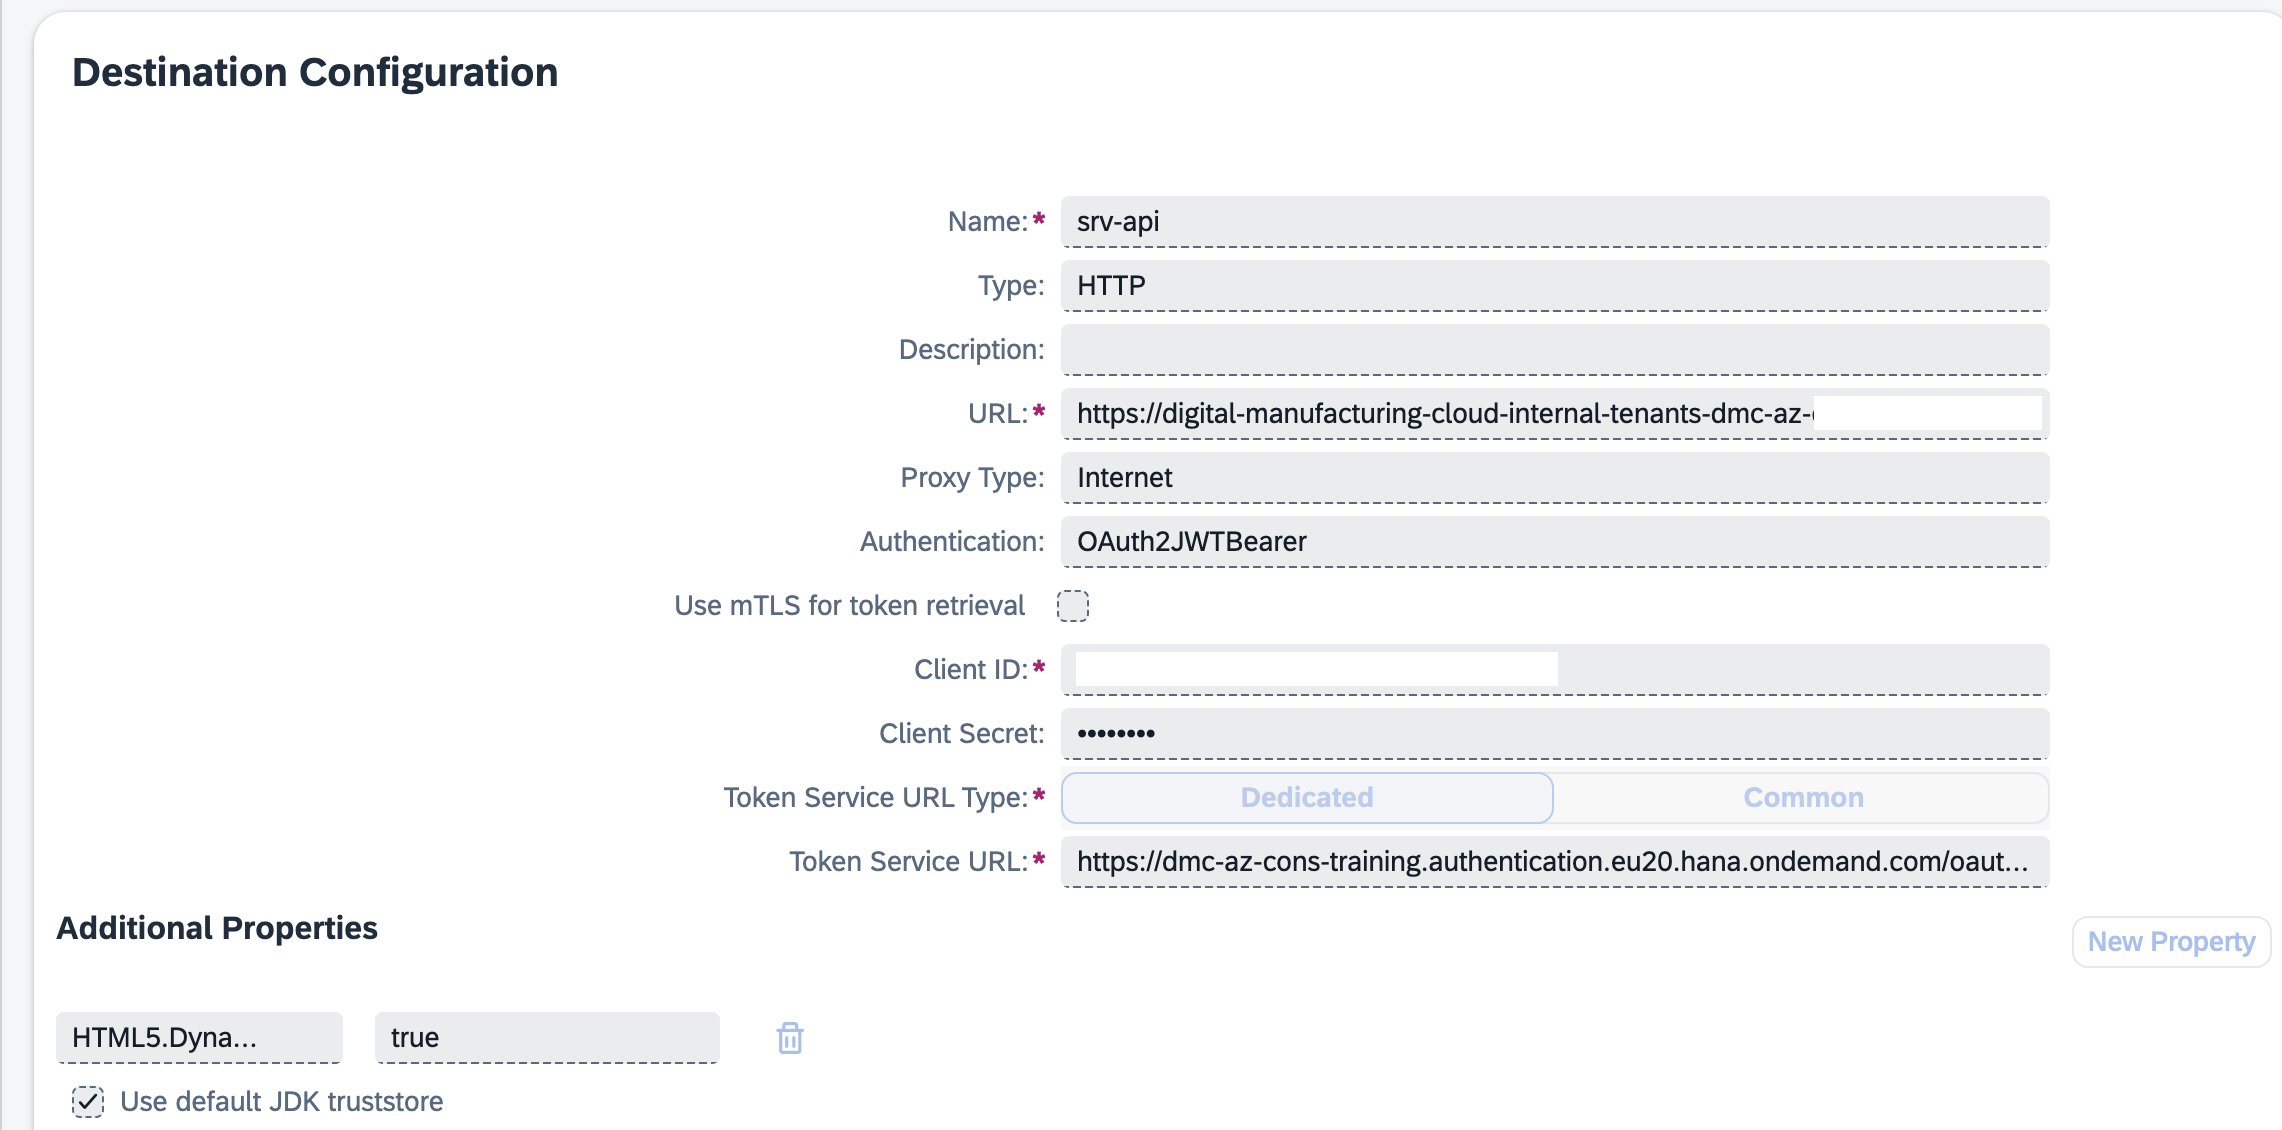
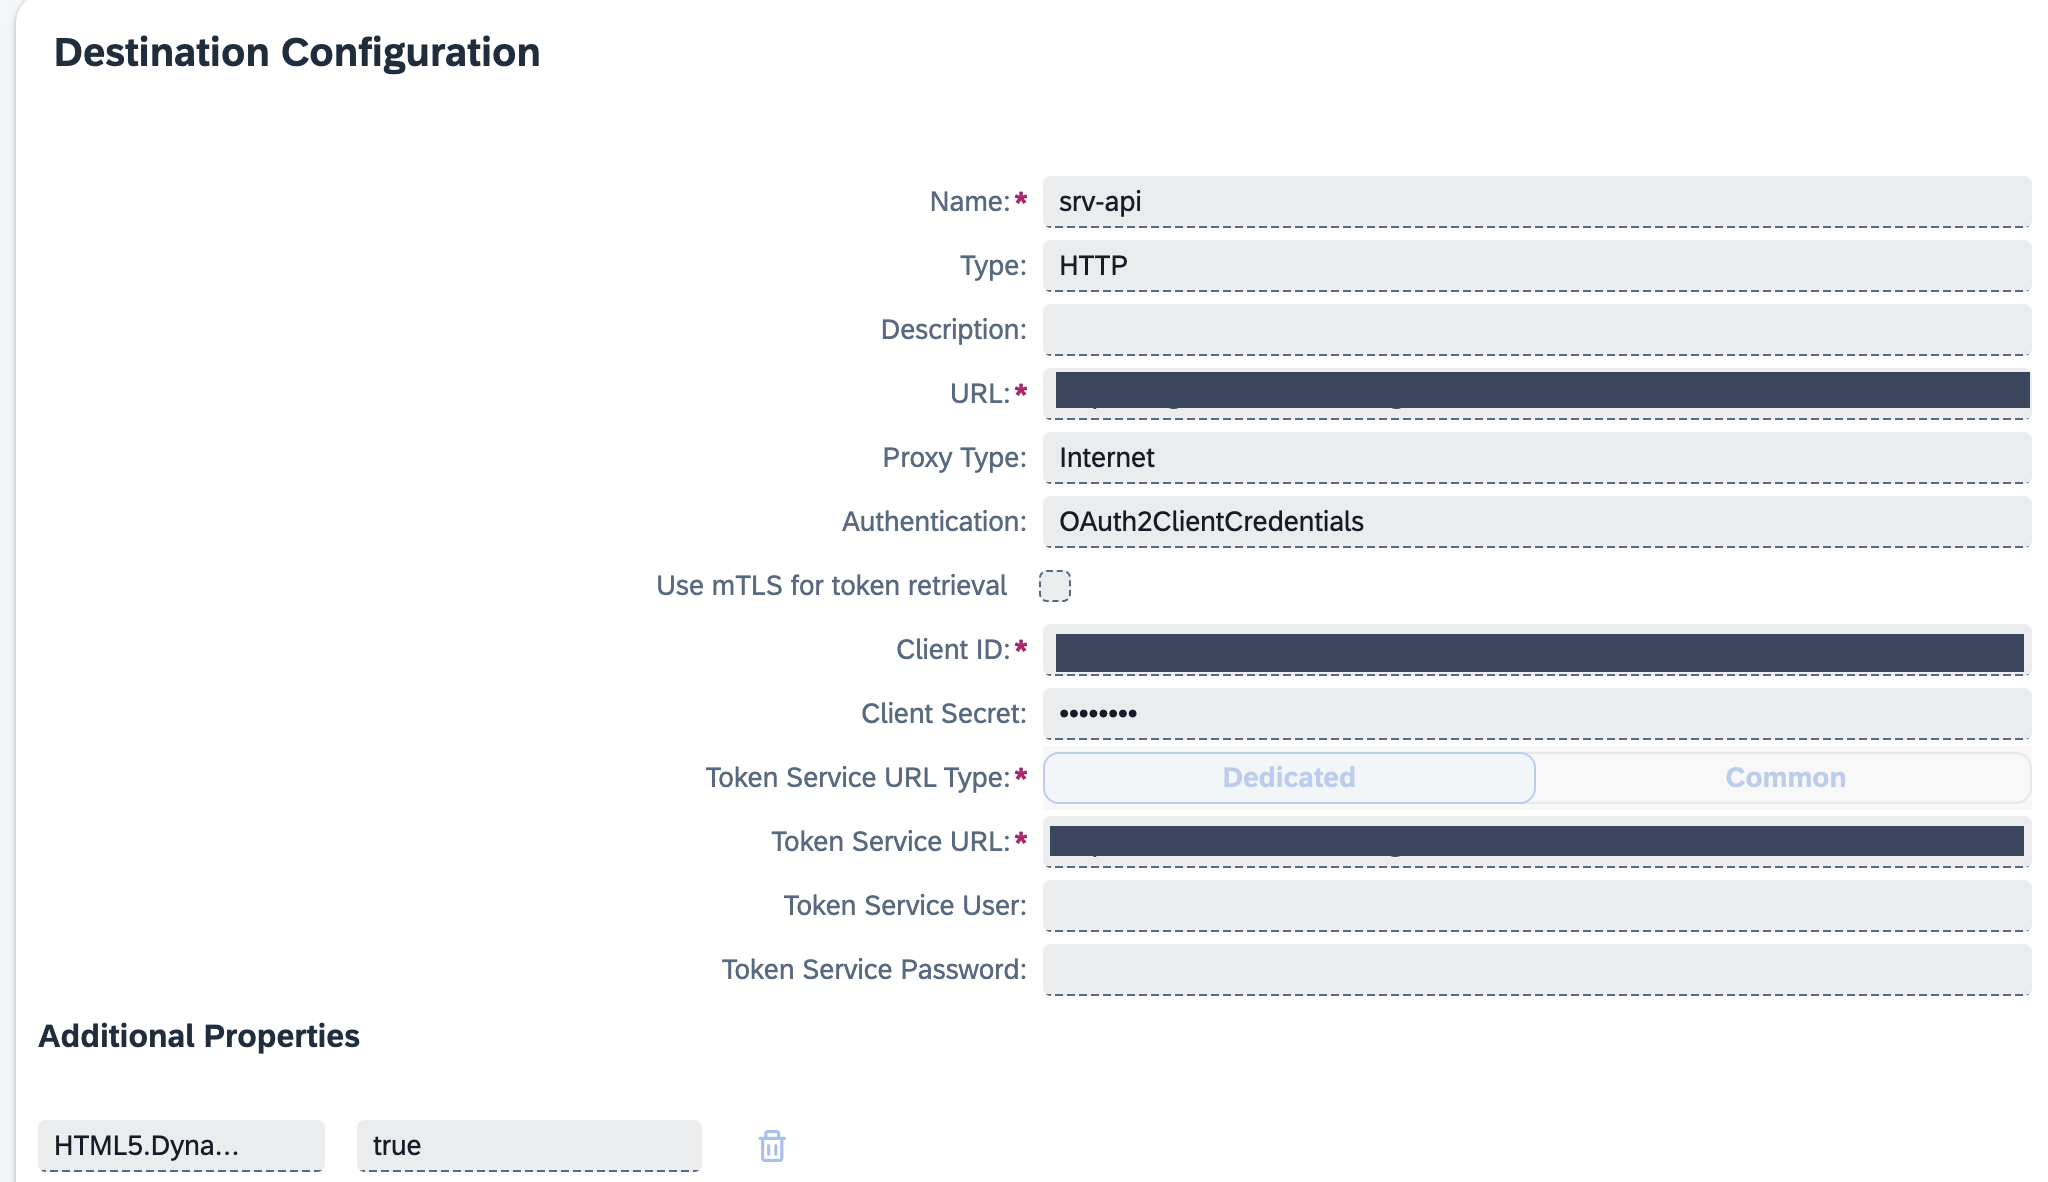
DM Custom POD Plugins update

diff --git a/dm-extension-scenarios/advanced-audit-log-viewer/AuditlogUIExtension/auditLogViewer/builder/PropertyEditor.js b/dm-extension-scenarios/advanced-audit-log-viewer/AuditlogUIExtension/auditLogViewer/builder/PropertyEditor.js
@@ -4,14 +4,14 @@ sap.ui.define([
 ], function (ResourceModel, PropertyEditor) {
     "use strict";
     var oFormContainer;
-    return PropertyEditor.extend( "sap.ext.exampleplugins.auditLogViewer.builder.PropertyEditor" ,{
+    return PropertyEditor.extend( "sap.ext.audit.auditLogViewer.builder.PropertyEditor" ,{
 
 		constructor: function(sId, mSettings){
 			PropertyEditor.apply(this, arguments);
 			
 			this.setI18nKeyPrefix("customComponentListConfig.");
-			this.setResourceBundleName("sap.ext.exampleplugins.auditLogViewer.i18n.builder");
-			this.setPluginResourceBundleName("sap.ext.exampleplugins.auditLogViewer.i18n.i18n");
+			this.setResourceBundleName("sap.ext.audit.auditLogViewer.i18n.builder");
+			this.setPluginResourceBundleName("sap.ext.audit.auditLogViewer.i18n.i18n");
 		},
 		addPropertyEditorContent: function(oPropertyFormContainer){
 			var oData = this.getPropertyData();

diff --git a/dm-extension-scenarios/advanced-audit-log-viewer/AuditlogUIExtension/auditLogViewer/controller/MainView.controller.js b/dm-extension-scenarios/advanced-audit-log-viewer/AuditlogUIExtension/auditLogViewer/controller/MainView.controller.js
@@ -9,7 +9,7 @@ sap.ui.define([
     var PAGING = "paging";
     var APPLICATION_JSON = "application/json";
     
-    return PluginViewController.extend("sap.ext.exampleplugins.auditLogViewer.controller.MainView", {
+    return PluginViewController.extend("sap.ext.audit.auditLogViewer.controller.MainView", {
         mTokenDeferred: null,
 
         onInit: function () {

diff --git a/dm-extension-scenarios/advanced-audit-log-viewer/AuditlogUIExtension/auditLogViewer/Component.js b/dm-extension-scenarios/advanced-audit-log-viewer/AuditlogUIExtension/auditLogViewer/Component.js
@@ -4,7 +4,7 @@ sap.ui.define([
 ], function (ProductionUIComponent, Device) {
 	"use strict";
 
-	return ProductionUIComponent.extend("sap.ext.exampleplugins.auditLogViewer.Component", {
+	return ProductionUIComponent.extend("sap.ext.audit.auditLogViewer.Component", {
 		metadata: {
 			manifest: "json"
 		}

diff --git a/dm-podplugin-extensions/README.md b/dm-podplugin-extensions/README.md
@@ -1,14 +1,21 @@
 # Description
 
 Currently POD Plugins can be deployed in 
-* Hosted directly on DM SaaS account
-* Hosted on BTP PaaS account
+* **Hosted directly on DM SaaS account** - The examples under folder */CustomPodPluginExamples* can be deployed directly in DM. For getting started, download the repository and compress contents of the folder into a zip file and the upload to POD Designer. **While compressing into a zip folder, the root should be "/".**
 
-The examples under folder **/CustomPodPluginExamples** can be deployed directly in DM. For getting started, download the repository and compress contents of the folder into a zip file and the upload to POD Designer. **While compressing into a zip folder, the root should be "/".**
+![](readmeReferences/image/CustomExtensionNamespace.png)
+![](readmeReferences/image/ExamplePlugins.png)
+
+
+* **Hosted on BTP PaaS account** - The examples under folder */ExecutionPodPluginTemplate_and_Example* and */ViewPodPluginTemplate_And_Example* can be deployed in BTP. The deployment and configuration steps are captured inside the documentation folder in them. 
+
+
  
+### Note
+The sample content under folder */CustomPodPluginExamples* contains limited entries in designer/components.json file, to add additional components, make respective changes in the file.
 
 
-The examples under folder **/ExecutionPodPluginTemplate_and_Example** and **/ViewPodPluginTemplate_And_Example** can be deployed in BTP. The deployment and configuration steps are captured inside the documentation folder in them. 
+
 
 
 # Code Snippets

diff --git a/dm-extension-scenarios/advanced-audit-log-viewer/README.md b/dm-extension-scenarios/advanced-audit-log-viewer/README.md
@@ -1,0 +1,13 @@
+# Description
+This is a sample code for advanced audit log viewer. There are 2 components 
+ - Abstract service on top of BTP audit log service endpoint
+ - Custom POD Plugin to consume the service above
+
+# Step 1
+Deploy the service **AuditLogMSExtension** in BTP
+
+# Step 2
+Create destination in DM SaaS tenant to consume the destination
+
+# Step 3
+Upload the UI **AuditlogUIExtension** as custom POD Plugin 
